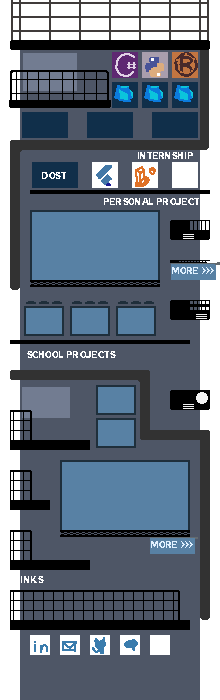
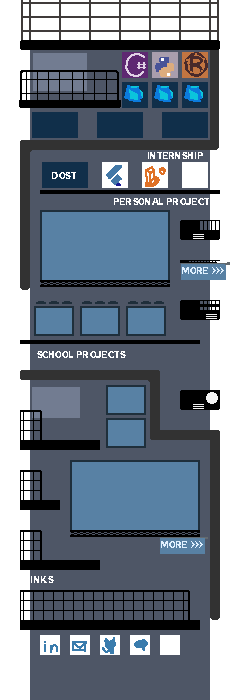
chore: add more space on sides of building

diff --git a/src/lib/interactive/systems/MovementAreaManager.ts b/src/lib/interactive/systems/MovementAreaManager.ts
@@ -33,74 +33,74 @@ export class MovementPointManager {
 		this.#hereArrowImage = await context.p5.loadImage(hereArrowImg);
 
 		// roof
-		this.addArea(1, 11, 3, new Target(2, 3, 1, 8));
+		this.addArea(2, 12, 3, new Target(2, 3, 2, 9));
 
 		// balcony 1
-		this.addArea(1, 10, 6, new Target(1, 3, 1, 8), new Target(1, -3, 1));
-		this.addArea(1, 10, 9, new Target(1, 4, 1, 17), new Target(1, -3, 1, 8));
+		this.addArea(2, 11, 6, new Target(1, 3, 2, 9), new Target(1, -3, 2));
+		this.addArea(2, 11, 9, new Target(1, 4, 2, 18), new Target(1, -3, 2, 9));
 
 		// pipe
-		this.addArea(1, 10, 13, new Target(1, 5, 3, 18), new Target(1, -4, 1, 8));
-		this.addArea(11, 19, 13, new Target(1, 5, 3, 18));
+		this.addArea(2, 11, 13, new Target(1, 5, 4, 19), new Target(1, -4, 2, 9));
+		this.addArea(12, 20, 13, new Target(1, 5, 4, 19));
 
 		// ledge
-		this.addArea(16, 20, 18, new Target(1, 3, 17, 18), new Target(2, -5, 1, 17));
-		this.addArea(3, 13, 18, undefined, new Target(2, -5, 1, 17));
+		this.addArea(17, 21, 18, new Target(1, 3, 18, 19), new Target(2, -5, 2, 18));
+		this.addArea(4, 14, 18, undefined, new Target(2, -5, 2, 18));
 
 		// machine
-		this.addArea(17, 20, 21, new Target(0, 4, 17, 18), new Target(0, -3));
+		this.addArea(18, 21, 21, new Target(0, 4, 18, 19), new Target(0, -3));
 
 		// machine
-		this.addArea(17, 17, 25, new Target(3, 2, 3, 13), new Target(0, -4));
-		this.addArea(17, 20, 25, new Target(0, 4), new Target(0, -4));
+		this.addArea(18, 18, 25, new Target(3, 2, 4, 14), new Target(0, -4));
+		this.addArea(18, 21, 25, new Target(0, 4), new Target(0, -4));
 
 		// billboard
-		this.addArea(15, 15, 27, new Target(0, 2, 17, 18), new Target(0, -2, 17, 18));
-		this.addArea(3, 14, 27, new Target(0, 6));
+		this.addArea(16, 16, 27, new Target(0, 2, 18, 19), new Target(0, -2, 18, 19));
+		this.addArea(4, 15, 27, new Target(0, 6));
 
 		// machine
-		this.addArea(17, 17, 29, new Target(2, 4, 1, 16), new Target(3, -2, 3, 13));
-		this.addArea(18, 20, 29, new Target(2, 4, 1, 16), new Target(0, -4));
+		this.addArea(18, 18, 29, new Target(2, 4, 2, 17), new Target(3, -2, 4, 14));
+		this.addArea(19, 21, 29, new Target(2, 4, 2, 17), new Target(0, -4));
 
 		// ledge
-		this.addArea(16, 18, 33, new Target(1, 5, 17, 18), new Target(1, -5, 17, 18));
-		this.addArea(1, 15, 33, new Target(0, 3, 1, 12));
+		this.addArea(17, 19, 33, new Target(1, 5, 18, 19), new Target(1, -5, 18, 19));
+		this.addArea(2, 16, 33, new Target(0, 3, 2, 13));
 
 		// pipe
-		this.addArea(1, 2, 36, new Target(0, 4, 1, 1), new Target(0, -3));
-		this.addArea(3, 9, 36, new Target(0, 7, 1, 6), new Target(0, -3));
-		this.addArea(14, 14, 36, new Target(3, 2, 17, 17), new Target(0, -3));
-		this.addArea(10, 13, 36, new Target(0, 7, 1, 6), new Target(0, -3));
+		this.addArea(2, 3, 36, new Target(0, 4, 2, 2), new Target(0, -3));
+		this.addArea(4, 10, 36, new Target(0, 7, 2, 7), new Target(0, -3));
+		this.addArea(15, 15, 36, new Target(3, 2, 18, 18), new Target(0, -3));
+		this.addArea(11, 14, 36, new Target(0, 7, 2, 7), new Target(0, -3));
 
 		// machine
-		this.addArea(17, 20, 38, new Target(0, 4), new Target(1, -2, 1, 12));
+		this.addArea(18, 21, 38, new Target(0, 4), new Target(1, -2, 2, 13));
 
 		// pipe
-		this.addArea(15, 20, 42, undefined, new Target(0, -4, 17, 18));
+		this.addArea(16, 21, 42, undefined, new Target(0, -4, 18, 19));
 
 		// balcony
-		this.addArea(1, 2, 40, new Target(1, 3, 1, 6), new Target(0, -4));
-		this.addArea(1, 3, 43, new Target(0, 3, 1, 1), new Target(0, -3, 1, 1));
-		this.addArea(4, 5, 43, new Target(0, 6, 1, 2));
+		this.addArea(2, 3, 40, new Target(1, 3, 2, 7), new Target(0, -4));
+		this.addArea(2, 4, 43, new Target(0, 3, 2, 2), new Target(0, -3, 2, 2));
+		this.addArea(5, 6, 43, new Target(0, 6, 2, 3));
 
 		// balcony
-		this.addArea(1, 2, 46, new Target(1, 3, 1, 6), new Target(0, -3));
-		this.addArea(4, 4, 49, new Target(2, 3, 6, 8, false));
-		this.addArea(1, 3, 49, new Target(0, 3, 1, 1), new Target(0, -3, 1, 1));
+		this.addArea(2, 3, 46, new Target(1, 3, 2, 7), new Target(0, -3));
+		this.addArea(5, 5, 49, new Target(2, 3, 7, 9, false));
+		this.addArea(2, 4, 49, new Target(0, 3, 2, 2), new Target(0, -3, 2, 2));
 
 		// balcony
-		this.addArea(1, 2, 52, new Target(1, 3, 1, 6), new Target(0, -4));
-		this.addArea(5, 8, 55, new Target(0, 3), new Target(1, -3, 6));
-		this.addArea(1, 4, 55, new Target(0, 3), new Target(0, -3, 1, 1));
+		this.addArea(2, 3, 52, new Target(1, 3, 2, 7), new Target(0, -4));
+		this.addArea(6, 9, 55, new Target(0, 3), new Target(1, -3, 7));
+		this.addArea(2, 5, 55, new Target(0, 3), new Target(0, -3, 2, 2));
 
 		// billboard
-		this.addArea(6, 6, 52, new Target(1, 3, 1, 6), new Target(2, -3, 3, 3));
-		this.addArea(7, 9, 52, new Target(1, 3, 1, 6));
+		this.addArea(7, 7, 52, new Target(1, 3, 2, 7), new Target(2, -3, 4, 4));
+		this.addArea(8, 10, 52, new Target(1, 3, 2, 7));
 
 		// balcony
-		this.addArea(1, 9, 58, new Target(0, 3), new Target(0, -3, 1, 7));
-		this.addArea(9, 17, 58, new Target(0, 3));
-		this.addArea(1, 18, 61, undefined, new Target(0, -3, 1, 16));
+		this.addArea(2, 10, 58, new Target(0, 3), new Target(0, -3, 2, 8));
+		this.addArea(10, 18, 58, new Target(0, 3));
+		this.addArea(2, 19, 61, undefined, new Target(0, -3, 2, 17));
 	}
 
 	addArea(xStart: number, xEnd: number, y: number, downTarget?: Target, upTarget?: Target) {

diff --git a/src/lib/interactive/constants.ts b/src/lib/interactive/constants.ts
@@ -9,13 +9,13 @@ export const CANVAS_SIZE = {
 const SCALE_MULTIPLIER = 3;
 
 export const BUILDING_SIZE = {
-	WIDTH: 220 * SCALE_MULTIPLIER,
+	WIDTH: 240 * SCALE_MULTIPLIER,
 	HEIGHT: 700 * SCALE_MULTIPLIER,
-	ASPECT_RATIO: 220 / 700
+	ASPECT_RATIO: 240 / 700
 };
 
 export const WORLD_SIZE = {
-	REFERENCE_WIDTH: 660
+	REFERENCE_WIDTH: 720
 };
 
 export const PHYSICS = {
@@ -76,41 +76,42 @@ export function makeColliderGrid() {
 
 	fillRow(grid, 4);
 
-	fillX(grid, 1, 10, 7);
-	fillX(grid, 1, 10, 10);
+	// balcony
+	fillX(grid, 2, 11, 7);
+	fillX(grid, 2, 11, 10);
 
 	// pipe
-	fillY(grid, 5, 14, 20);
+	fillY(grid, 5, 14, 21);
 	fillRow(grid, 14);
-	fillY(grid, 15, 28, 1);
+	fillY(grid, 15, 28, 2);
 
 	// right-overhanging things
-	fillX(grid, 3, 20, 19);
-	fillX(grid, 17, 20, 22);
-	fillX(grid, 17, 20, 26);
-	fillX(grid, 17, 20, 30);
-	fillX(grid, 17, 20, 39);
+	fillX(grid, 4, 21, 19);
+	fillX(grid, 18, 21, 22);
+	fillX(grid, 18, 21, 26);
+	fillX(grid, 18, 21, 30);
+	fillX(grid, 18, 21, 39);
 
-	fillX(grid, 3, 15, 28);
-	fillX(grid, 1, 18, 34);
+	fillX(grid, 4, 16, 28);
+	fillX(grid, 2, 19, 34);
 
 	//pipe
-	fillX(grid, 1, 14, 37);
-	fillY(grid, 38, 42, 14);
-	fillX(grid, 14, 20, 43);
-	fillY(grid, 43, 61, 20);
+	fillX(grid, 2, 15, 37);
+	fillY(grid, 38, 42, 15);
+	fillX(grid, 15, 21, 43);
+	fillY(grid, 43, 61, 21);
 
-	fillX(grid, 6, 18, 53);
+	fillX(grid, 7, 19, 53);
 
 	// balcony things
-	fillX(grid, 1, 2, 41);
-	fillX(grid, 1, 8, 44);
-	fillX(grid, 1, 2, 47);
-	fillX(grid, 1, 4, 50);
-	fillX(grid, 1, 2, 53);
-	fillX(grid, 1, 8, 56);
-	fillX(grid, 1, 17, 59);
-	fillX(grid, 1, 18, 62);
+	fillX(grid, 2, 3, 41);
+	fillX(grid, 2, 9, 44);
+	fillX(grid, 2, 3, 47);
+	fillX(grid, 2, 5, 50);
+	fillX(grid, 2, 3, 53);
+	fillX(grid, 2, 9, 56);
+	fillX(grid, 2, 18, 59);
+	fillX(grid, 2, 19, 62);
 
 	// floor
 	fillX(grid, 0, 21, 69);
@@ -119,7 +120,7 @@ export function makeColliderGrid() {
 }
 
 function fillRow(grid: boolean[][], y: number) {
-	for (let x = 1; x < gridWidth - 1; x++) {
+	for (let x = 2; x < gridWidth - 2; x++) {
 		grid[x][y] = true;
 	}
 }

diff --git a/src/lib/interactive/systems/ShovableManager.ts b/src/lib/interactive/systems/ShovableManager.ts
@@ -28,11 +28,11 @@ export class ShovableManager {
 		}
 
 		this.addShovable(context, 20, 3, 5);
-		this.addShovable(context, 1, 9, 0);
+		this.addShovable(context, 4, 9, 0);
 		this.addShovable(context, 8, 43, 1);
-		this.addShovable(context, 2, 49, 2);
-		this.addShovable(context, 6, 55, 3);
-		this.addShovable(context, 12, 61, 4);
+		this.addShovable(context, 3, 49, 2);
+		this.addShovable(context, 7, 55, 3);
+		this.addShovable(context, 13, 61, 4);
 	}
 
 	private addShovable(context: Context, gridX: number, gridY: number, imageIndex: number) {
